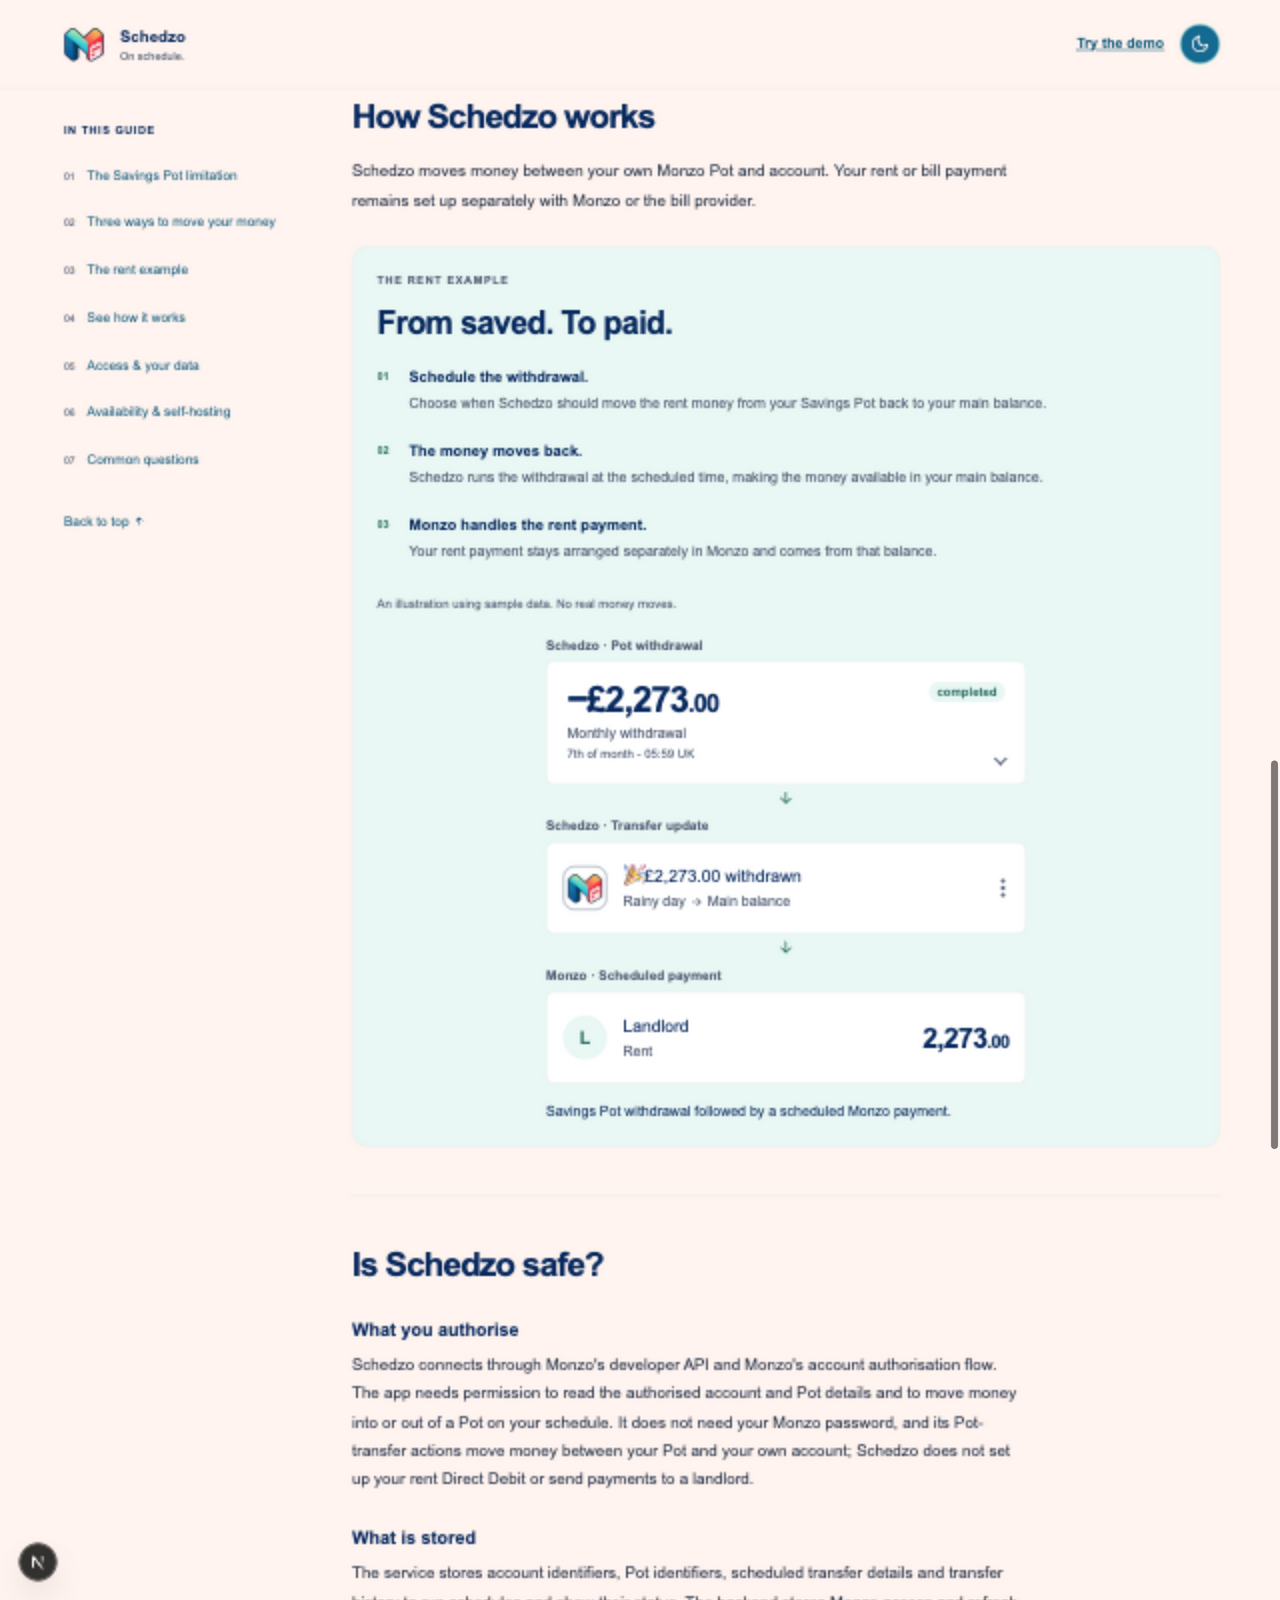
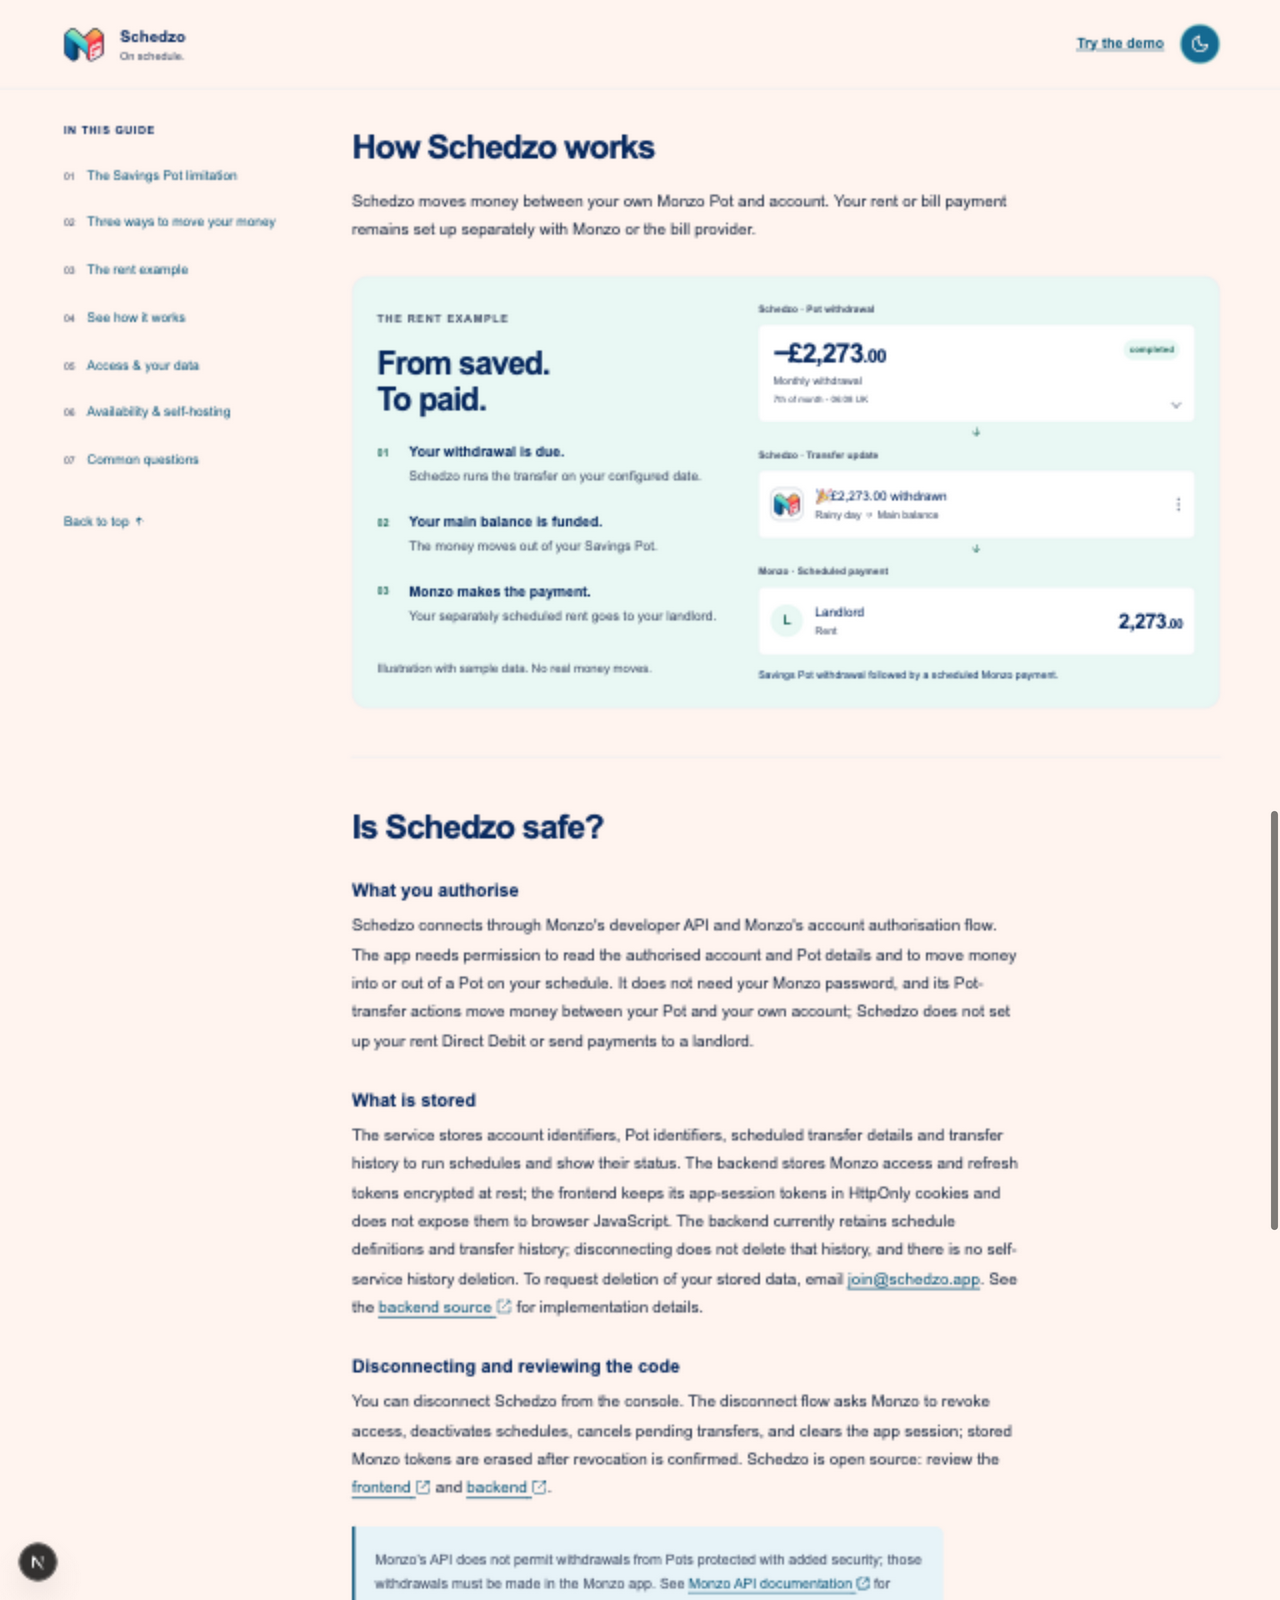
fix: restore article payment flow presentation

diff --git a/components/landing/payment-flow-example/payment-flow-example.tsx b/components/landing/payment-flow-example/payment-flow-example.tsx
@@ -1,25 +1,37 @@
+import type {ReactNode} from "react";
 import type {ScheduledTransfer} from "@/lib/scheduled-transfers/types";
 import {PaymentFlow} from "@/components/landing/payment-flow/payment-flow";
 import styles from "./payment-flow-example.module.css";
 
-export function PaymentFlowExample({transfer, heading, animated = true, potName}: {
+const defaultExplanation = {
+  steps: [
+    {title: "Schedule the withdrawal.", description: "Choose when Schedzo should move the rent money from your Savings Pot back to your main balance."},
+    {title: "The money moves back.", description: "Schedzo runs the withdrawal at the scheduled time, making the money available in your main balance."},
+    {title: "Monzo handles the rent payment.", description: "Your rent payment stays arranged separately in Monzo and comes from that balance."},
+  ],
+  note: "An illustration using sample data. No real money moves.",
+};
+
+export function PaymentFlowExample({transfer, heading, animated = true, potName, presentation = "standard", explanation = defaultExplanation}: {
   transfer: ScheduledTransfer;
-  heading: string;
+  heading: ReactNode;
   animated?: boolean;
   potName?: string;
+  presentation?: "standard" | "compact";
+  explanation?: {steps: readonly {title: string; description: string}[]; note: string};
 }) {
   return (
     <div className={styles.container}>
-      <div className={styles.example}>
+      <div className={`${styles.example}${presentation === "compact" ? ` ${styles.compact}` : ""}`}>
         <div className={styles.copy}>
           <p className={styles.eyebrow}>The rent example</p>
           <h3 className={styles.heading}>{heading}</h3>
           <ol className={styles.summary}>
-            <li><strong>Schedule the withdrawal.</strong><span>Choose when Schedzo should move the rent money from your Savings Pot back to your main balance.</span></li>
-            <li><strong>The money moves back.</strong><span>Schedzo runs the withdrawal at the scheduled time, making the money available in your main balance.</span></li>
-            <li><strong>Monzo handles the rent payment.</strong><span>Your rent payment stays arranged separately in Monzo and comes from that balance.</span></li>
+            {explanation.steps.map(({title, description}) => (
+              <li key={title}><strong>{title}</strong><span>{description}</span></li>
+            ))}
           </ol>
-          <p className={styles.note}>An illustration using sample data. No real money moves.</p>
+          <p className={styles.note}>{explanation.note}</p>
         </div>
         <div className={styles.preview}>
           <PaymentFlow transfer={transfer} potName={potName} animated={animated} />

diff --git a/components/landing/payment-flow-example/payment-flow-example.module.css b/components/landing/payment-flow-example/payment-flow-example.module.css
@@ -108,3 +108,51 @@
   .summary { gap: var(--space-5); }
   .heading { font-size: 1.5rem; }
 }
+
+/* The article keeps its compact, tinted example at every viewport width. */
+.compact {
+  grid-template-columns: minmax(0, 1fr);
+  gap: var(--space-6);
+  padding: var(--space-6);
+  border: 1px solid var(--color-border);
+  border-radius: 16px;
+  background: var(--color-status-completed-background);
+}
+
+.compact .copy { padding-top: var(--space-2); }
+.compact .eyebrow { margin-bottom: var(--space-5); }
+
+.compact .heading {
+  font-size: 2rem;
+  line-height: 1.1;
+  letter-spacing: -0.045em;
+  text-wrap: initial;
+}
+
+.compact .heading br { display: none; }
+.compact .summary { gap: var(--space-6); }
+.compact .summary strong { font-size: 0.875rem; }
+.compact .summary span { font-size: 0.8125rem; line-height: 1.6; }
+.compact .preview { width: min(100%, 420px); }
+.compact .preview > :global(figure[data-static="true"]) { line-height: 1.8; }
+
+@media (min-width: 1101px) {
+  @container payment-flow-example (min-width: 740px) {
+    .compact {
+      grid-template-columns: minmax(0, 0.9fr) minmax(0, 1.1fr);
+    }
+
+    .compact .heading br { display: initial; }
+    .compact .preview { width: auto; justify-self: stretch; }
+    .compact .preview > :global(figure[data-static="true"]) { zoom: 0.74; }
+  }
+}
+
+@media (max-width: 560px) {
+  .compact { padding: var(--space-4); }
+}
+
+/* Retain the panel while leaving enough room for the amount in a narrow card. */
+@container payment-flow-example (max-width: 320px) {
+  .compact { padding-inline: var(--space-1); }
+}

diff --git a/components/landing/savings-pot-article/savings-pot-article.tsx b/components/landing/savings-pot-article/savings-pot-article.tsx
@@ -130,7 +130,20 @@ export function SavingsPotArticle() {
                 <h2 id="flow-heading">How Schedzo works</h2>
                 <p>Schedzo moves money between your own Monzo Pot and account. Your rent or bill payment remains set up separately with Monzo or the bill provider.</p>
                 <div className={styles.flowExample}>
-                  <PaymentFlowExample transfer={transfer} heading="From saved. To paid." animated={false} />
+                  <PaymentFlowExample
+                    transfer={transfer}
+                    heading={<>From saved.<br /> To paid.</>}
+                    animated={false}
+                    presentation="compact"
+                    explanation={{
+                      steps: [
+                        {title: "Your withdrawal is due.", description: "Schedzo runs the transfer on your configured date."},
+                        {title: "Your main balance is funded.", description: "The money moves out of your Savings Pot."},
+                        {title: "Monzo makes the payment.", description: "Your separately scheduled rent goes to your landlord."},
+                      ],
+                      note: "Illustration with sample data. No real money moves.",
+                    }}
+                  />
                 </div>
               </section>
 
